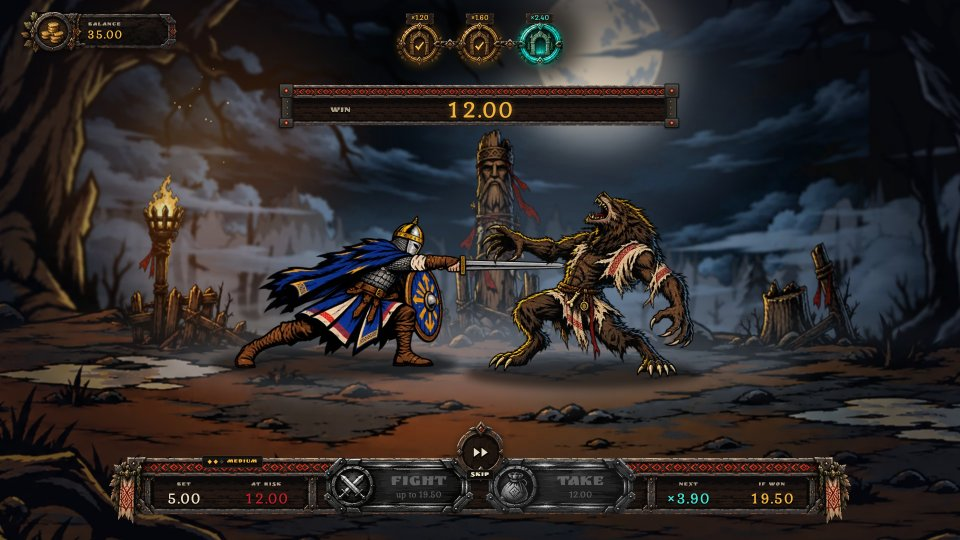
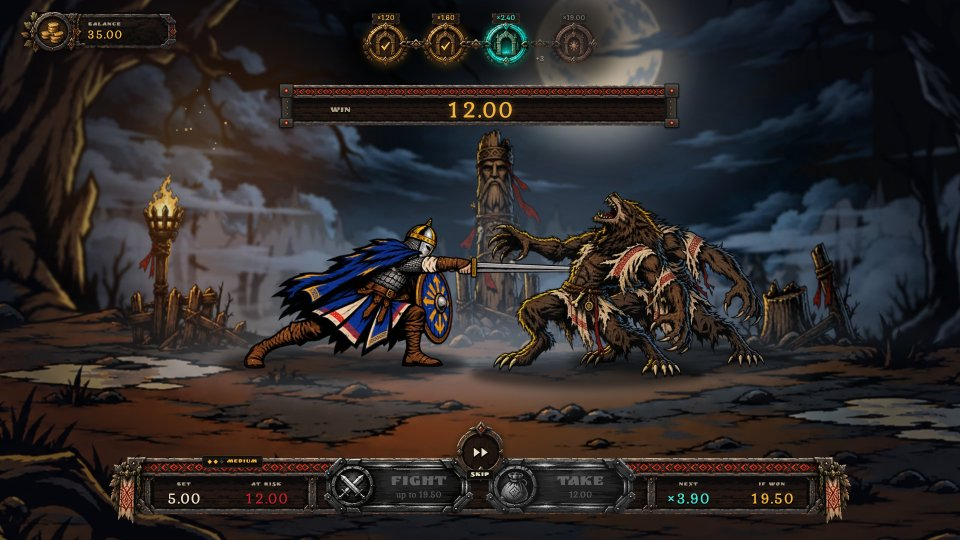
test: boss level checks and screenshot in visual QA

diff --git a/docs/qa/report.html b/docs/qa/report.html
@@ -12,11 +12,11 @@
   tr.ok td:first-child { color: #3fe0d0; } tr.bad td:first-child { color: #f05a5a; font-weight: bold; }
 </style></head><body>
 <h1>Casino Game · visual QA</h1>
-<p>Generated 2026-10-31T10:39:11.523Z by <code>prototype/scripts/visual-qa.mjs</code> · app at 1920×1080 (shown at 960×540) · Figma file LXMHPQWUYxLjZiYVTfbx5X.
+<p>Generated 2026-10-31T13:44:52.549Z by <code>prototype/scripts/visual-qa.mjs</code> · app at 1920×1080 (shown at 960×540) · Figma file LXMHPQWUYxLjZiYVTfbx5X.
 Animated frames (attacks, boss entrance) will differ slightly: judge layout, UI and numbers. Character art comes from Lottie, so poses differ from the static Figma frames.</p>
-<h2>Money and runtime checks: 53/53 passed</h2>
-<table><tr class="ok"><td>PASS</td><td>L0: AT RISK (dock) = WIN (counter)</td><td>0.00 vs 0.00</td></tr><tr class="ok"><td>PASS</td><td>L0: AT RISK = game value</td><td>0.00 vs 0</td></tr><tr class="ok"><td>PASS</td><td>L0: TAKE disabled before the first win</td><td></td></tr><tr class="ok"><td>PASS</td><td>L0: IF WON = FIGHT amount</td><td>up to 6.00 vs 6.00</td></tr><tr class="ok"><td>PASS</td><td>L0: AT RISK has 2 decimals</td><td>0.00</td></tr><tr class="ok"><td>PASS</td><td>L0: IF WON has 2 decimals</td><td>6.00</td></tr><tr class="ok"><td>PASS</td><td>L0: WIN has 2 decimals</td><td>0.00</td></tr><tr class="ok"><td>PASS</td><td>Balance after PLAY = start − bet</td><td>35.00</td></tr><tr class="ok"><td>PASS</td><td>L1: AT RISK (dock) = WIN (counter)</td><td>6.00 vs 6.00</td></tr><tr class="ok"><td>PASS</td><td>L1: AT RISK = game value</td><td>6.00 vs 6</td></tr><tr class="ok"><td>PASS</td><td>L1: TAKE amount = AT RISK</td><td>6.00 vs 6.00</td></tr><tr class="ok"><td>PASS</td><td>L1: IF WON = FIGHT amount</td><td>up to 8.00 vs 8.00</td></tr><tr class="ok"><td>PASS</td><td>L1: AT RISK has 2 decimals</td><td>6.00</td></tr><tr class="ok"><td>PASS</td><td>L1: IF WON has 2 decimals</td><td>8.00</td></tr><tr class="ok"><td>PASS</td><td>L1: WIN has 2 decimals</td><td>6.00</td></tr><tr class="ok"><td>PASS</td><td>L2: AT RISK (dock) = WIN (counter)</td><td>8.00 vs 8.00</td></tr><tr class="ok"><td>PASS</td><td>L2: AT RISK = game value</td><td>8.00 vs 8</td></tr><tr class="ok"><td>PASS</td><td>L2: TAKE amount = AT RISK</td><td>8.00 vs 8.00</td></tr><tr class="ok"><td>PASS</td><td>L2: IF WON = FIGHT amount</td><td>up to 12.00 vs 12.00</td></tr><tr class="ok"><td>PASS</td><td>L2: AT RISK has 2 decimals</td><td>8.00</td></tr><tr class="ok"><td>PASS</td><td>L2: IF WON has 2 decimals</td><td>12.00</td></tr><tr class="ok"><td>PASS</td><td>L2: WIN has 2 decimals</td><td>8.00</td></tr><tr class="ok"><td>PASS</td><td>L3: AT RISK (dock) = WIN (counter)</td><td>12.00 vs 12.00</td></tr><tr class="ok"><td>PASS</td><td>L3: AT RISK = game value</td><td>12.00 vs 12</td></tr><tr class="ok"><td>PASS</td><td>L3: TAKE amount = AT RISK</td><td>12.00 vs 12.00</td></tr><tr class="ok"><td>PASS</td><td>L3: IF WON = FIGHT amount</td><td>up to 19.50 vs 19.50</td></tr><tr class="ok"><td>PASS</td><td>L3: AT RISK has 2 decimals</td><td>12.00</td></tr><tr class="ok"><td>PASS</td><td>L3: IF WON has 2 decimals</td><td>19.50</td></tr><tr class="ok"><td>PASS</td><td>L3: WIN has 2 decimals</td><td>12.00</td></tr><tr class="ok"><td>PASS</td><td>L4: AT RISK (dock) = WIN (counter)</td><td>19.50 vs 19.50</td></tr><tr class="ok"><td>PASS</td><td>L4: AT RISK = game value</td><td>19.50 vs 19.5</td></tr><tr class="ok"><td>PASS</td><td>L4: TAKE amount = AT RISK</td><td>19.50 vs 19.50</td></tr><tr class="ok"><td>PASS</td><td>L4: IF WON = FIGHT amount</td><td>up to 34.00 vs 34.00</td></tr><tr class="ok"><td>PASS</td><td>L4: AT RISK has 2 decimals</td><td>19.50</td></tr><tr class="ok"><td>PASS</td><td>L4: IF WON has 2 decimals</td><td>34.00</td></tr><tr class="ok"><td>PASS</td><td>L4: WIN has 2 decimals</td><td>19.50</td></tr><tr class="ok"><td>PASS</td><td>L5: AT RISK (dock) = WIN (counter)</td><td>34.00 vs 34.00</td></tr><tr class="ok"><td>PASS</td><td>L5: AT RISK = game value</td><td>34.00 vs 34</td></tr><tr class="ok"><td>PASS</td><td>L5: TAKE amount = AT RISK</td><td>34.00 vs 34.00</td></tr><tr class="ok"><td>PASS</td><td>L5: IF WON = FIGHT amount</td><td>up to 57.50 vs 57.50</td></tr><tr class="ok"><td>PASS</td><td>L5: AT RISK has 2 decimals</td><td>34.00</td></tr><tr class="ok"><td>PASS</td><td>L5: IF WON has 2 decimals</td><td>57.50</td></tr><tr class="ok"><td>PASS</td><td>L5: WIN has 2 decimals</td><td>34.00</td></tr><tr class="ok"><td>PASS</td><td>Victory banner = AT RISK growth (19.50 − 12.00)</td><td>+7.50</td></tr><tr class="ok"><td>PASS</td><td>Defeat popup = −bet</td><td></td></tr><tr class="ok"><td>PASS</td><td>Defeat: balance = before − bet</td><td>35.00</td></tr><tr class="ok"><td>PASS</td><td>Cashed out popup = TAKE amount = AT RISK</td><td>+12.00 / 12.00 / 12.00</td></tr><tr class="ok"><td>PASS</td><td>Cashed out: balance = before − bet + payout</td><td>47.00</td></tr><tr class="ok"><td>PASS</td><td>MAX WIN popup = IF WON before the boss fight</td><td>+95.00 vs 95.00</td></tr><tr class="ok"><td>PASS</td><td>MAX WIN: balance unchanged until the popup shows</td><td>35</td></tr><tr class="ok"><td>PASS</td><td>MAX WIN: balance = before − bet + payout</td><td>130.00</td></tr><tr class="ok"><td>PASS</td><td>Lottie clip mount during a round (JS) < 100 ms each (roadmap long-task target)</td><td>17 mounts, worst 89 ms (enemy_05_dead.json)</td></tr><tr class="ok"><td>PASS</td><td>No page errors or console errors</td><td></td></tr></table>
-<p><code>info</code> Headless (software GL) long tasks during the perf round: 40, max 381 ms. Not a gate; see checklist for real-GPU numbers.</p>
+<h2>Money and runtime checks: 59/59 passed</h2>
+<table><tr class="ok"><td>PASS</td><td>L0: AT RISK (dock) = WIN (counter)</td><td>0.00 vs 0.00</td></tr><tr class="ok"><td>PASS</td><td>L0: AT RISK = game value</td><td>0.00 vs 0</td></tr><tr class="ok"><td>PASS</td><td>L0: TAKE disabled before the first win</td><td></td></tr><tr class="ok"><td>PASS</td><td>L0: IF WON = FIGHT amount</td><td>up to 6.00 vs 6.00</td></tr><tr class="ok"><td>PASS</td><td>L0: AT RISK has 2 decimals</td><td>0.00</td></tr><tr class="ok"><td>PASS</td><td>L0: IF WON has 2 decimals</td><td>6.00</td></tr><tr class="ok"><td>PASS</td><td>L0: WIN has 2 decimals</td><td>0.00</td></tr><tr class="ok"><td>PASS</td><td>Balance after PLAY = start − bet</td><td>35.00</td></tr><tr class="ok"><td>PASS</td><td>L1: AT RISK (dock) = WIN (counter)</td><td>6.00 vs 6.00</td></tr><tr class="ok"><td>PASS</td><td>L1: AT RISK = game value</td><td>6.00 vs 6</td></tr><tr class="ok"><td>PASS</td><td>L1: TAKE amount = AT RISK</td><td>6.00 vs 6.00</td></tr><tr class="ok"><td>PASS</td><td>L1: IF WON = FIGHT amount</td><td>up to 8.00 vs 8.00</td></tr><tr class="ok"><td>PASS</td><td>L1: AT RISK has 2 decimals</td><td>6.00</td></tr><tr class="ok"><td>PASS</td><td>L1: IF WON has 2 decimals</td><td>8.00</td></tr><tr class="ok"><td>PASS</td><td>L1: WIN has 2 decimals</td><td>6.00</td></tr><tr class="ok"><td>PASS</td><td>L1: path ends with the locked boss gate (final multiplier)</td><td>×19.00</td></tr><tr class="ok"><td>PASS</td><td>L2: AT RISK (dock) = WIN (counter)</td><td>8.00 vs 8.00</td></tr><tr class="ok"><td>PASS</td><td>L2: AT RISK = game value</td><td>8.00 vs 8</td></tr><tr class="ok"><td>PASS</td><td>L2: TAKE amount = AT RISK</td><td>8.00 vs 8.00</td></tr><tr class="ok"><td>PASS</td><td>L2: IF WON = FIGHT amount</td><td>up to 12.00 vs 12.00</td></tr><tr class="ok"><td>PASS</td><td>L2: AT RISK has 2 decimals</td><td>8.00</td></tr><tr class="ok"><td>PASS</td><td>L2: IF WON has 2 decimals</td><td>12.00</td></tr><tr class="ok"><td>PASS</td><td>L2: WIN has 2 decimals</td><td>8.00</td></tr><tr class="ok"><td>PASS</td><td>L3: AT RISK (dock) = WIN (counter)</td><td>12.00 vs 12.00</td></tr><tr class="ok"><td>PASS</td><td>L3: AT RISK = game value</td><td>12.00 vs 12</td></tr><tr class="ok"><td>PASS</td><td>L3: TAKE amount = AT RISK</td><td>12.00 vs 12.00</td></tr><tr class="ok"><td>PASS</td><td>L3: IF WON = FIGHT amount</td><td>up to 19.50 vs 19.50</td></tr><tr class="ok"><td>PASS</td><td>L3: AT RISK has 2 decimals</td><td>12.00</td></tr><tr class="ok"><td>PASS</td><td>L3: IF WON has 2 decimals</td><td>19.50</td></tr><tr class="ok"><td>PASS</td><td>L3: WIN has 2 decimals</td><td>12.00</td></tr><tr class="ok"><td>PASS</td><td>L4: AT RISK (dock) = WIN (counter)</td><td>19.50 vs 19.50</td></tr><tr class="ok"><td>PASS</td><td>L4: AT RISK = game value</td><td>19.50 vs 19.5</td></tr><tr class="ok"><td>PASS</td><td>L4: TAKE amount = AT RISK</td><td>19.50 vs 19.50</td></tr><tr class="ok"><td>PASS</td><td>L4: IF WON = FIGHT amount</td><td>up to 34.00 vs 34.00</td></tr><tr class="ok"><td>PASS</td><td>L4: AT RISK has 2 decimals</td><td>19.50</td></tr><tr class="ok"><td>PASS</td><td>L4: IF WON has 2 decimals</td><td>34.00</td></tr><tr class="ok"><td>PASS</td><td>L4: WIN has 2 decimals</td><td>19.50</td></tr><tr class="ok"><td>PASS</td><td>L5: AT RISK (dock) = WIN (counter)</td><td>34.00 vs 34.00</td></tr><tr class="ok"><td>PASS</td><td>L5: AT RISK = game value</td><td>34.00 vs 34</td></tr><tr class="ok"><td>PASS</td><td>L5: TAKE amount = AT RISK</td><td>34.00 vs 34.00</td></tr><tr class="ok"><td>PASS</td><td>L5: IF WON = FIGHT amount</td><td>up to 57.50 vs 57.50</td></tr><tr class="ok"><td>PASS</td><td>L5: AT RISK has 2 decimals</td><td>34.00</td></tr><tr class="ok"><td>PASS</td><td>L5: IF WON has 2 decimals</td><td>57.50</td></tr><tr class="ok"><td>PASS</td><td>L5: WIN has 2 decimals</td><td>34.00</td></tr><tr class="ok"><td>PASS</td><td>Victory banner = AT RISK growth (19.50 − 12.00)</td><td>+7.50</td></tr><tr class="ok"><td>PASS</td><td>Defeat popup = −bet</td><td></td></tr><tr class="ok"><td>PASS</td><td>Defeat: balance = before − bet</td><td>35.00</td></tr><tr class="ok"><td>PASS</td><td>Cashed out popup = TAKE amount = AT RISK</td><td>+12.00 / 12.00 / 12.00</td></tr><tr class="ok"><td>PASS</td><td>Cashed out: balance = before − bet + payout</td><td>47.00</td></tr><tr class="ok"><td>PASS</td><td>Boss intro banner shows FINAL BATTLE and the final multiplier</td><td>FINAL BATTLE·MAX WIN×19.00</td></tr><tr class="ok"><td>PASS</td><td>Boss level: dock label reads MAX WIN</td><td>MAX WIN</td></tr><tr class="ok"><td>PASS</td><td>Boss level: FIGHT reads "max win" = MAX WIN slot</td><td>max win 95.00 vs 95.00</td></tr><tr class="ok"><td>PASS</td><td>Boss level: FIGHT uses Highlight</td><td></td></tr><tr class="ok"><td>PASS</td><td>Boss level: plate reads MAX WIN + final multiplier</td><td>MAX WIN×19.00</td></tr><tr class="ok"><td>PASS</td><td>MAX WIN popup = IF WON before the boss fight</td><td>+95.00 vs 95.00</td></tr><tr class="ok"><td>PASS</td><td>MAX WIN: balance unchanged until the popup shows</td><td>35</td></tr><tr class="ok"><td>PASS</td><td>MAX WIN: balance = before − bet + payout</td><td>130.00</td></tr><tr class="ok"><td>PASS</td><td>Lottie clip mount during a round (JS) < 100 ms each (roadmap long-task target)</td><td>17 mounts, worst 13 ms (hero_05_dead.json)</td></tr><tr class="ok"><td>PASS</td><td>No page errors or console errors</td><td></td></tr></table>
+<p><code>info</code> Headless (software GL) long tasks during the perf round: 6, max 86 ms. Not a gate; see checklist for real-GPU numbers.</p>
 
     <section>
       <h2>SETUP <code>587:5125</code></h2>
@@ -115,10 +115,18 @@ Animated frames (attacks, boss entrance) will differ slightly: judge layout, UI 
       </div>
     </section>
     <section>
-      <h2>Boss final MAX WIN <code>660:5112</code></h2>
+      <h2>Boss final MAX WIN popup <code>660:5112</code></h2>
       <div class="row" data-file="13-max-win">
-        <figure><img src="figma/13-max-win.jpg" alt="Figma Boss final MAX WIN"><figcaption>Figma</figcaption></figure>
-        <figure><img src="app/13-max-win.jpg" alt="App Boss final MAX WIN"><figcaption>App</figcaption></figure>
+        <figure><img src="figma/13-max-win.jpg" alt="Figma Boss final MAX WIN popup"><figcaption>Figma</figcaption></figure>
+        <figure><img src="app/13-max-win.jpg" alt="App Boss final MAX WIN popup"><figcaption>App</figcaption></figure>
+        <figure><canvas width="960" height="540"></canvas><figcaption>Difference (black = identical)</figcaption></figure>
+      </div>
+    </section>
+    <section>
+      <h2>Boss level before FIGHT <code>473:1397</code></h2>
+      <div class="row" data-file="14-boss-decision">
+        <figure><img src="figma/14-boss-decision.jpg" alt="Figma Boss level before FIGHT"><figcaption>Figma</figcaption></figure>
+        <figure><img src="app/14-boss-decision.jpg" alt="App Boss level before FIGHT"><figcaption>App</figcaption></figure>
         <figure><canvas width="960" height="540"></canvas><figcaption>Difference (black = identical)</figcaption></figure>
       </div>
     </section>
